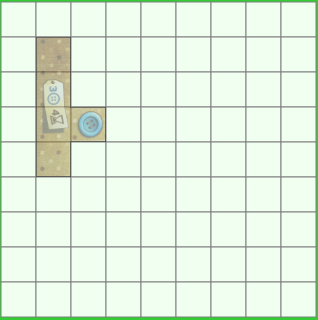
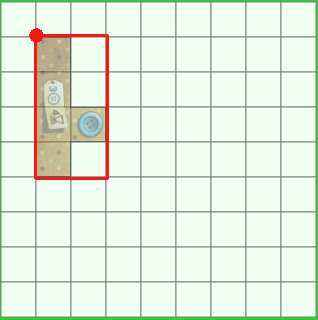
fix specification of rotation and associated tests (thanks to Chris Ward)

Changed region(s): [[0.0849, 0.0938, 0.3679, 0.5625]]

diff --git a/tests/comp1140/ass2/TestUtility.java b/tests/comp1140/ass2/TestUtility.java
@@ -26,31 +26,37 @@ public class TestUtility {
     }
 
     static final String PATCH_CIRCLES[] = {
-            "JObWXgHUYNaQKVIBDPZcLdefRASMCEFTG",
-            "ODcMGYHNfVEgWIeACPBQJUFXRdKTLZSab",
-            "VWDEXBIYcaZdUGSMLCNFeAHOfJQgKPRbT",
-            "cfGVHFZaTbUIeNBdRWEgJXYKLMOPDACQS",
-            "AfEUDFBQNKMRVTGeCdcHIWbXSYPgJLOZa"
+            "QJfXRIbTcdegKVZSUFWCYGAaBLDEOHPMN",
+            "XgDEfCIYcaHdZbRJGAeWKBFLMNOPQUSTV",
+            "cYbTeZVDLIPEagQHdWNfCAFBJRGKMOSUX",
+            "OMPSQVALTNBXGCJWcUYaKIHZfRbdegDEF",
+            "CUFfGDHIJVLTgAaMWPBEKNOXSQRYZebcd",
+            "cSdDKfLTOHeBUJMVCgNEFPWXGQRYZAabI",
+            "bRcECeQVOULZPYWBaTfSXAMDdgFHGIJKN"
     };
 
     static final String PLACEMENTS[] = {
-            "SHGAEAAAFABD.GEDBJACD..OAACXFCCHAFDNEABaEGEhHBAVCECBGAC.PCEChFBALCACfDDAhEHAREACACHDTFGAWBHB.gBFBYFCC.QBDDhAIADGACdHGD.MAEAhADA.bAAB.",
-            "BHHAJAAA.UFFBRACCdAFCKDFC..LBECZCFA..SHEAhFIAaADADAGD.GEABHCABVDEChBAAEBGA..IAFAhGIAeEACACAB.PABDXGCAbABBOAABhCIAYEHBgECGhIDA.CDDDFEABMFAC",
-            "OFFCQAAAKGDC.RABD....VAEAEFGEXEGABAHB..hIDAICHAaEDEZCEEGDBAhEDAMBACCCADeBEEHBCAfABAhDEAgECAPDECWAFFDIAAcFAChAAASAHBNDDB.FADAhDIAAEHC....",
-            "SHGAGAAAHABDFGGGTAFA.UCFBIEHABAHBRDACEEFFJDDEhAAAYHCGMCFDOEAEhACAPGBADCCDQDDBhIAAcFFD.fGAEaGCEeHFA.WCAD.hAEAgBEC.hAFAXABEADAB.",
-            "EAGAUAAAFBGDBACA.KADDMADA..RAFCGABBeDFGCBFDHEEA.hAFA..IBDAhFIAbCEE.XAABSDAChAGAYBBBJDAEZEDEaGGAfFGCNBAAVFAATGDAhHGAWHAGLHFAhAHAOFFEDDDB.."
+            "LHAAOAAAHADA.MAFANCAA..QFBCXBACIBHAhBBAcECAgGEChGBAKCCASCEFWHFAYAAEhHHAGDAABCGDPEEARECFTEFAeBBHVADAhDCAZGEACDHAAFIBaCDCDGABfEHAhGIA.",
+            "eAFABAAAMACAOBHHUAGA..TCFA..VBBAXFGAhEHAECAB.fHGBhFHACBEB.IGEAhIGAYDCGcDECdDGAbEACGDCAWDHFKFDANIBBPBCChAGAgGAAaGAEHDADhIAAJHCEAGGBFBABSHFADADA",
+            "FAGARAAAGADAMCIB.UAGA..XGGA..bCACeBGBVDFAhAAAIFGAEEAA.gDEAhIHAdFCAfFEAhABACHFDJGCGSCDATGFADFIBaGABWHBGBAFDhADAcEBD.YACChCEA.PCBBNIBB",
+            "LHAATAAA.XGDBJACA.UFFAaAFAKBFAHEBAZCAARCCAeDEAhHCAECDEOBHDPCABQDFDhAAAVAAABGABWEABhAIAYAFCfECEgAEGFFEFSFGAhCCAAIFANCIACHHA.IHCAhEEA.DFAB.",
+            "aAABMAAABBBCKADA..OAFASACB.QCBDRBAAeBFFdCHAhBAAFAEBDCEBHEBD.IDEAhDAALDAAgFDChGBAPEFDEFAAYHEAbFCD.cCFHhEGAfFHAJAHFAAGBNEAACGBA..hAIA.UFGC.",
+            ".aAAA.....IADA.dAFA.DAHB.KBAA.LCDBhAIA.HDAA.hAAAUDFA.JFAF.MBIBhBAA.CFCDgFGA.FGDD.WHFAhBFA.....hBAA....",
+            "MAAADAAAdADAFHGAGAFA.KAHBRACAEGEA.eCCAQBAA.hIGAODABLEFAZDCBPDEDhAFAYEBCaDGDTCFAhEHASEHFAGDAIFBAJHAAbGDAcBGAhGHACEBA.WAFEBHHAgGAGhGIA."
     };
 
     static final int SCORES[] = {
-            34, 30, 20, 6, 12, 27, 17, 68, 32, -2
+            71, 40, 88, 6, 7, 43, 77, 34, 76, 19, -99, 46, 38, 29
     };
 
     static final String INVALID_PLACEMENTS[] = {
-            "SHGAEHGAFABD.GEDBJACD..OAACXFCCHAFDNEABaEGEhHBAVCECBGAC.PCEChFBALCACfDDAhEHAREACACHDTFGAWBHB.gBFBYFCC.QBDDhAIADGACdHGD.MAEAhADA.bAAB.",
-            "BHHAJAAA.UHHBRACCdAFCKDFC",
-            "OFFCQAAAKGDC.RABD....VAEAEFGEXEGABAHB..hIDAICHAaEDEZCEEGDBAhEDAMBACCCADeBEEHBCAfABAhDEAgECAPDECWAFFDIAAcFAChAAASAHBNDDB.OADAhDIAAEHC....",
-            "SHGAGAAAHABDFGGGTAFA.UCFBIEHABAHBRDACEEFFJDDEhAAAYHCGMCFDOEAEhACAPGBADCCDQDDBhIAAcHGD.fGAEaGCEeHFA.WCAD.hAEAgBEC.hAFAXABEADAB.",
-            "EAGAUAAAFBGDBACA.KADDMADA..RAFCGABBeDFGCBFDHEEA.hAFA..EBDAhFIAbCEE.XAABSDAChAGAYBBBJDAEZEDEaGGAfFGCNBAAVFAATGDAhHGAWHAGLHFAhAHAOFFEDDDB.."
+            "LHAAOAAAHADA.MAFANCAA..QFBCXBACIBHAhBBAcECAgGECLGBAKCCASCEFWHFAYAAEhHHAGDAABCGDPEEARECFTEFAeBBHVADAhDCAZGEACDHAAFIBaCDCDGABfEHAhGIA.",
+            "eAFABAAAMACAOBHHUAGA..TCFA..VBBAXFGAhEHAECAB.fHGBhFHACBEB.IGEAhIGABDCGcDECdDGAbEACGDCAWDHFKFDANIBBPBCChAGAgGAAaGAEHDADhIAAJHCEAGGBFBABSHFADADA",
+            "FAGA.RAAAGADAMCIB.UAGA..XGGA..bCACeBGBVDFAhAAAIFGAEEAA.gDEAhIHAdFCAfFEAhABACHFDJGCGSCDATGFADFIBaGABWHBGBAFDhADAcEBD.YACChCEA.PCBBNIBB",
+            "LHAATAAA.XGDBJACA.UFFAaAFAKBFAHEBAZCAARCCAeDEAUHCAECDEOBHDPCABQDFDhAAAVAAABGABWEABhAIAYAFCfECEgAEGFFEFSFGAhCCAAIFANCIACHHA.IHCAhEEA.DFAB.",
+            "aAABMAAABBBCKADA..OAFASACB.QCBDRBAAeBFFdCHAhBAAFAEBDCEBHEBD.IDEAhDAALDAAgFDChGBAPEFDEFAAYHEAhFCD.cCFHhEGAfFHAJAHFAAGBNEAACGBA..hAIA.UFGC.",
+            ".aAAA.....IADA.dAFA.DAHB.KBAA.LCDBhAIA.HDAA.hAAAUDFA.JFAF.MBIBhBAA.CFCDgFGA.FGDD.WHFAhBFA.....hBAAhADA....",
+            "MAAADAAAdADAFHGAGAFA.KAHBRACAEGEA.eCCAQBAA.hIGAODABLEFAZDCBPDEDhAFAYEBCaDGDTCFAhEHASEHFAGDAIFBAJHAAbGDAcBGAhGHAMEBA.WAFEBHHAgGAGhGIA."
     };
 
     static String badlyFormedTilePlacement(Random r) {

diff --git a/tests/comp1140/ass2/GeneratePatchPlacementTest.java b/tests/comp1140/ass2/GeneratePatchPlacementTest.java
@@ -53,11 +53,11 @@ public class GeneratePatchPlacementTest {
         for (int i = 0; i < numNormalPatches; i++) {
             int patchIndex = rand.nextInt(numNormalPatches);
             char patchId;
-            if (patchIndex > 26) patchId = (char)('a' + (patchIndex - 26));
+            if (patchIndex >= 26) patchId = (char)('a' + (patchIndex - 26));
             else patchId = (char)('A' + patchIndex);
             while (patchCircleString.indexOf(patchId) > -1) {
                 patchIndex = (patchIndex + 1) % numNormalPatches;
-                if (patchIndex > 26) patchId = (char) ('a' + (patchIndex - 26));
+                if (patchIndex >= 26) patchId = (char) ('a' + (patchIndex - 26));
                 else patchId = (char) ('A' + patchIndex);
             }
             patchCircleString += patchId;

diff --git a/README.md b/README.md
@@ -42,7 +42,7 @@ of 25. So each mark in the assignment corresponds to a mark in your final
 assessment for the course. Note that for some stages of the assignment you 
 will get a _group_ mark, and for others you will be _individually_ marked. The
 mark breakdown and the due dates are described on the
-[deliverables](https://cs.anu.edu.au/courses/comp1110/assessments/deliverables/) page.
+[deliverables](http://cs.anu.edu.au/courses/COMP1110/deliverables.html) page.
 
 Your work will be marked via your tutor accessing git, so it is essential that
 you carefully follow instructions for setting up and maintaining your group
@@ -167,7 +167,7 @@ purchased and removed from the circle.)
 Each patch tile's position is described in terms of its origin, which is the top
 left-most square when in its unrotated state (as illustrated above).
 
-A *patch placement string* consists of four characters describing the location
+A *patch placement string* usually consists of four characters describing the location
 and orientation of a particular patch on a player's 9x9 quilt board:
 
 * The first character identifies which of the 34 tile-types is being placed ('A' to 'Z' or 'a' to 'h').
@@ -179,14 +179,18 @@ The default (unrotated) orientation is 'A'. Orientation 'B' means the tile is ro
 'C' means the tile is rotated 180 degrees, and 'D' means the tile is rotated 270 degrees clockwise.
 Rotations 'E' through 'H' mean the tile is flipped over before rotating.
 
+Assume that in its default orientation, a piece is M columns wide and N
+rows tall.
+After a 90 degree rotation, it will be N columns wide and M rows tall.
 To make rotation regular and ensure that rotated pieces correctly align
-with the quilt board squares, rotation is performed within an NxN square
-on the quilt board, where N is the maximum dimension (column or row) of
-the patch.
+with the quilt board squares, rotation is performed so that the top-left
+hand corner of the MxN bounding box is always in the same place.
 
 For example, the following pictures show the 'O' piece at column 'B',
 row 'B', the first with rotation 'A' and the second with rotation 'D'.
-It has been rotated within a 4x4 square with the origin at ('B','B').
+It has been rotated within a 2x4 rectangle with the origin at ('B','B').
+The origin is indicated with a red dot in the top left corner of the
+bounding box.
 
 ![game](assets/OBBA.png)
 ![game](assets/OBBD.png)
@@ -201,7 +205,7 @@ On any turn instead of placing a patch, a player may instead choose to
 advance their time token to the next square after the other player's
 time token, and receive a number of buttons equal to the number of squares
 moved.
-To represent this choice, a special single-character string is used: ".".
+To represent this choice, a special single-character patch placement string is used: ".".
 
 #### Example Game
 
@@ -315,15 +319,15 @@ not have broken any rules either).
 
 ## Evaluation Criteria
 
-It is essential that you refer to the [deliverables page](https://cs.anu.edu.au/courses/comp1110/assessments/deliverables/)
+It is essential that you refer to the [deliverables page](http://cs.anu.edu.au/courses/COMP1110/deliverables.html)
 to check that you understand each of the deadlines and what is required.
 Your assignment will be marked via GitLab, so all submittable materials will
 need to be in the *correct* locations in GitLab, as prescribed by the 
-deliverables page.
+[deliverables page](http://cs.anu.edu.au/courses/COMP1110/deliverables.html).
 
 
 **The mark breakdown is described on the
-[deliverables](https://cs.anu.edu.au/courses/comp1110/assessments/deliverables/) page.**
+[deliverables](https://gitlab.cecs.anu.edu.au/comp1110/comp1110/wikis/deliverables) page.**
 
 ### Part One
 
@@ -332,7 +336,7 @@ In the first part of the assignment you will:
 * Implement parts of the text interface to the game (Tasks #3, #4, and #6).
 * Implement a simple viewer that allows you to visualise game states (Task #5).
 
-The criteria for the [completion of part one](https://cs.anu.edu.au/courses/comp1110/assessments/deliverables/#D2C)
+The criteria for the [completion of part one](https://gitlab.cecs.anu.edu.au/comp1110/comp1110/wikis/deliverables#d2c-assignment-2-stage-c-2-marks-group)
 is as follows:
 
 <a name="p"></a>
